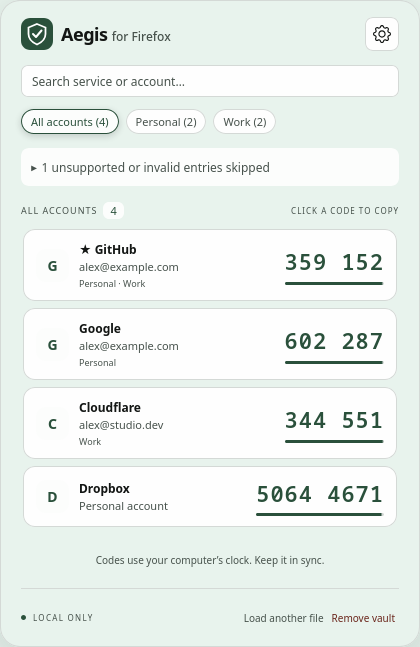
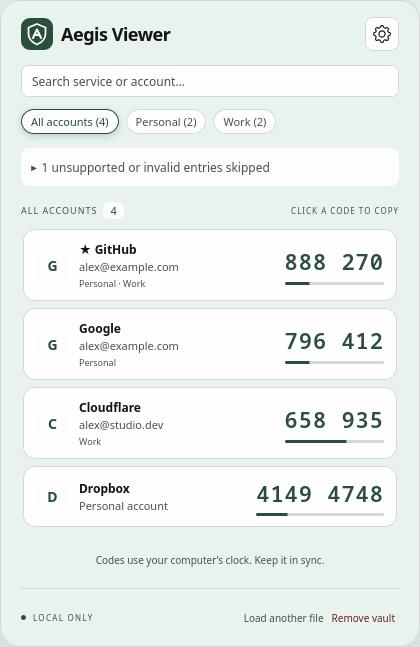
refactor: rename Firefox Aegis to Aegis Viewer and update related assets

diff --git a/extension/app.js b/extension/app.js
@@ -7157,7 +7157,7 @@ var App_default = /* @__PURE__ */ defineComponent({
 		});
 		return (_ctx, _cache) => {
 			return openBlock(), createElementBlock("main", null, [
-				createBaseVNode("header", null, [_cache[17] || (_cache[17] = createStaticVNode("<div class=\"brand\"><svg class=\"brand-icon\" aria-hidden=\"true\" width=\"32\" height=\"32\" viewBox=\"0 0 64 64\"><rect width=\"64\" height=\"64\" rx=\"18\" fill=\"var(--accent)\"></rect><path d=\"M32 12 49 19v13c0 10-8 17-17 21-9-4-17-11-17-21V19z\" fill=\"none\" stroke=\"var(--on-accent)\" stroke-width=\"3.5\"></path><path d=\"m24 32 6 6 11-13\" fill=\"none\" stroke=\"var(--on-accent)\" stroke-width=\"4\" stroke-linecap=\"round\" stroke-linejoin=\"round\"></path></svg><h1>Aegis <span>for Firefox</span></h1></div>", 1)), createBaseVNode("div", _hoisted_1, [
+				createBaseVNode("header", null, [_cache[17] || (_cache[17] = createStaticVNode("<div class=\"brand\"><svg class=\"brand-icon\" aria-hidden=\"true\" width=\"32\" height=\"32\" viewBox=\"0 0 64 64\"><rect width=\"64\" height=\"64\" rx=\"18\" fill=\"var(--accent)\"></rect><path d=\"M32 12 49 19v13c0 10-8 17-17 21-9-4-17-11-17-21V19z\" fill=\"none\" stroke=\"var(--on-accent)\" stroke-width=\"3.5\"></path><path d=\"M24 40 32 23 40 40M27 34h10\" fill=\"none\" stroke=\"var(--on-accent)\" stroke-width=\"4\" stroke-linecap=\"round\" stroke-linejoin=\"round\"></path></svg><h1>Aegis Viewer</h1></div>", 1)), createBaseVNode("div", _hoisted_1, [
 					createBaseVNode("button", {
 						disabled: busy.value || view.value === "import-password",
 						id: "config",

diff --git a/src/App.vue b/src/App.vue
@@ -310,7 +310,7 @@ onUnmounted(() => {
 <template>
   <main>
     <header>
-      <div class="brand"><svg class="brand-icon" aria-hidden="true" width="32" height="32" viewBox="0 0 64 64"><rect width="64" height="64" rx="18" fill="var(--accent)"/><path d="M32 12 49 19v13c0 10-8 17-17 21-9-4-17-11-17-21V19z" fill="none" stroke="var(--on-accent)" stroke-width="3.5"/><path d="m24 32 6 6 11-13" fill="none" stroke="var(--on-accent)" stroke-width="4" stroke-linecap="round" stroke-linejoin="round"/></svg><h1>Aegis <span>for Firefox</span></h1></div>
+      <div class="brand"><svg class="brand-icon" aria-hidden="true" width="32" height="32" viewBox="0 0 64 64"><rect width="64" height="64" rx="18" fill="var(--accent)"/><path d="M32 12 49 19v13c0 10-8 17-17 21-9-4-17-11-17-21V19z" fill="none" stroke="var(--on-accent)" stroke-width="3.5"/><path d="M24 40 32 23 40 40M27 34h10" fill="none" stroke="var(--on-accent)" stroke-width="4" stroke-linecap="round" stroke-linejoin="round"/></svg><h1>Aegis Viewer</h1></div>
       <!-- Bootstrap Icons v1.13.1 (MIT); see licenses/bootstrap-icons-LICENSE.txt. -->
       <div class="header-actions">
         <button :disabled="busy || view === 'import-password'" id="config" @click="toggleConfig" class="icon-button" :aria-pressed="configOpen" :title="configOpen ? 'Back' : 'Settings'" :aria-label="configOpen ? 'Back' : 'Settings'">

diff --git a/extension/app.html b/extension/app.html
@@ -3,10 +3,10 @@
 <head>
   <meta charset="utf-8">
   <meta name="viewport" content="width=device-width, initial-scale=1">
-  <title>Firefox Aegis</title>
+  <title>Aegis Viewer</title>
   <link rel="icon" href="icons/shield.svg" type="image/svg+xml">
   <script type="module" crossorigin src="./app.js"></script>
-  <link rel="stylesheet" crossorigin href="./app.css?v=0a60fe18026f">
+  <link rel="stylesheet" crossorigin href="./app.css?v=9df403fd0230">
 </head>
 <body><div id="app"></div></body>
 </html>

diff --git a/src/app.html b/src/app.html
@@ -3,7 +3,7 @@
 <head>
   <meta charset="utf-8">
   <meta name="viewport" content="width=device-width, initial-scale=1">
-  <title>Firefox Aegis</title>
+  <title>Aegis Viewer</title>
   <link rel="icon" href="icons/shield.svg" type="image/svg+xml">
 </head>
 <body><div id="app"></div><script type="module" src="./main.ts"></script></body>

diff --git a/src/app.scss b/src/app.scss
@@ -85,15 +85,9 @@ footer {
 
 h1 {
   font-size: 18px;
+  line-height: 1.25;
   letter-spacing: -0.5px;
   margin: 0;
-
-  span {
-    font-size: 12px;
-    font-weight: 500;
-    letter-spacing: 0;
-    color: var(--muted);
-  }
 }
 
 h2 {

diff --git a/extension/app.css b/extension/app.css
@@ -98,14 +98,9 @@ footer {
 
 h1 {
   font-size: 18px;
+  line-height: 1.25;
   letter-spacing: -0.5px;
   margin: 0;
-}
-h1 span {
-  font-size: 12px;
-  font-weight: 500;
-  letter-spacing: 0;
-  color: var(--muted);
 }
 
 h2 {

diff --git a/scripts/test-firefox.py b/scripts/test-firefox.py
@@ -73,10 +73,10 @@ class Marionette:
         self.js("const el = document.querySelector(arguments[0]); el.value = arguments[1]; el.dispatchEvent(new Event('input', {bubbles:true}));", [selector, value])
 
     def clock(self, timestamp):
-        self.js("document.dispatchEvent(new CustomEvent('__firefox_aegis_test_clock', {detail: arguments[0]}));", [timestamp])
+        self.js("document.dispatchEvent(new CustomEvent('__aegis_viewer_test_clock', {detail: arguments[0]}));", [timestamp])
 
     def session_snapshot(self):
-        self.js("delete document.documentElement.dataset.sessionSnapshot; document.dispatchEvent(new Event('__firefox_aegis_test_session')); ")
+        self.js("delete document.documentElement.dataset.sessionSnapshot; document.dispatchEvent(new Event('__aegis_viewer_test_session')); ")
         self.wait("document.documentElement.dataset.sessionSnapshot")
         return json.loads(self.js("return document.documentElement.dataset.sessionSnapshot"))
 
@@ -104,7 +104,7 @@ def main():
     firefox = shutil.which("firefox")
     if not firefox:
         raise SystemExit("Firefox must be installed for this test.")
-    with tempfile.TemporaryDirectory(prefix="firefox-aegis-test-") as temporary:
+    with tempfile.TemporaryDirectory(prefix="aegis-viewer-test-") as temporary:
         directory = Path(temporary)
         profile = directory / "profile"
         profile.mkdir()
@@ -135,17 +135,17 @@ def main():
                         clock = """(() => {
                           const realNow = Date.now.bind(Date); let clock = null;
                           Date.now = () => clock ?? realNow();
-                          document.addEventListener('__firefox_aegis_test_clock', event => {
+                          document.addEventListener('__aegis_viewer_test_clock', event => {
                             clock = event.detail;
                             document.dispatchEvent(new Event('visibilitychange'));
                           });
-                          document.addEventListener('__firefox_aegis_test_expire', async event => {
+                          document.addEventListener('__aegis_viewer_test_expire', async event => {
                             const cache = await browser.storage.session.get('unlockedVault');
                             cache.unlockedVault.unlockedAt = realNow() - 60_000 + (event.detail ?? 1_000);
                             await browser.storage.session.set(cache);
                             document.documentElement.dataset.expiryReady = 'true';
                           });
-                          document.addEventListener('__firefox_aegis_test_session', async () => {
+                          document.addEventListener('__aegis_viewer_test_session', async () => {
                             const cache = await browser.storage.session.get('unlockedVault');
                             const alarm = await browser.alarms.get('lock-vault');
                             document.documentElement.dataset.sessionSnapshot = JSON.stringify({
@@ -624,7 +624,7 @@ def main():
 
             # Reopening the popup resets the shared timer and updates the
             # deadline in the other, already-open view without a refresh loop.
-            client.js("document.dispatchEvent(new CustomEvent('__firefox_aegis_test_expire', {detail: 5_000}))")
+            client.js("document.dispatchEvent(new CustomEvent('__aegis_viewer_test_expire', {detail: 5_000}))")
             client.wait("document.documentElement.dataset.expiryReady === 'true'")
             old_timer = client.session_snapshot()
             client.navigate(url.split("?")[0])
@@ -643,7 +643,7 @@ def main():
             client.clock(None)
             client.command("WebDriver:SwitchToWindow", {"handle": first})
 
-            client.js("document.dispatchEvent(new Event('__firefox_aegis_test_expire'))")
+            client.js("document.dispatchEvent(new Event('__aegis_viewer_test_expire'))")
             client.wait("document.documentElement.dataset.expiryReady === 'true'")
             client.wait("!document.getElementById('unlock').hidden && !document.getElementById('unlock-password').disabled")
             client.command("WebDriver:SwitchToWindow", {"handle": second})
@@ -651,7 +651,7 @@ def main():
             client.fill("#unlock-password", "test")
             client.click("#unlock-form button")
             client.wait("document.querySelectorAll('.entry').length === 3 && !document.getElementById('lock').disabled")
-            client.js("document.dispatchEvent(new Event('__firefox_aegis_test_expire'))")
+            client.js("document.dispatchEvent(new Event('__aegis_viewer_test_expire'))")
             client.wait("document.documentElement.dataset.expiryReady === 'true'")
             client.navigate("about:blank")
             client.command("WebDriver:SwitchToWindow", {"handle": first})

diff --git a/scripts/package.py b/scripts/package.py
@@ -6,7 +6,7 @@ from zipfile import ZipFile, ZIP_DEFLATED
 root = Path(__file__).resolve().parents[1]
 extension = root / "extension"
 version = json.loads((extension / "manifest.json").read_text())["version"]
-output = root / "artifacts" / f"firefox-aegis-{version}.zip"
+output = root / "artifacts" / f"aegis-viewer-{version}.zip"
 output.parent.mkdir(exist_ok=True)
 with ZipFile(output, "w", ZIP_DEFLATED) as archive:
     for path in sorted(extension.rglob("*")):

diff --git a/README.md b/README.md
@@ -1,12 +1,12 @@
-# Firefox Aegis
+# Aegis Viewer
 
 > **AI disclosure:** This extension was made entirely by AI.
 
 A local Firefox extension for viewing TOTP codes from an [Aegis Authenticator](https://github.com/beemdevelopment/Aegis) JSON export.
 
-**Unofficial third-party extension:** Firefox Aegis is not affiliated with or endorsed by the Aegis Authenticator or Firefox teams.
+**Unofficial third-party extension:** Aegis Viewer is not affiliated with or endorsed by the Aegis Authenticator or Firefox teams.
 
-![Firefox Aegis in dark and light themes, showing demo TOTP accounts filtered by Gaming and Work groups](artifacts/showoff.png)
+![Aegis Viewer showing demo TOTP accounts in the default light theme](artifacts/preview.png)
 
 ## Features
 
@@ -26,7 +26,7 @@ Requires Firefox **142 or later**.
 1. Open `about:debugging#/runtime/this-firefox`.
 2. Click **Load Temporary Add-on…**.
 3. Select `extension/manifest.json` from this project.
-4. Open the **Firefox Aegis** toolbar button. Choose **Choose Aegis JSON** to open the import tab, then select your export.
+4. Open the **Aegis Viewer** toolbar button. Choose **Choose Aegis JSON** to open the import tab, then select your export.
 5. For an encrypted export, enter its Aegis password. For an unencrypted export, **Import without password** is selected by default. Select **Encrypt local copy** to show the password and confirmation fields if you want encryption, then select **Continue**.
 
 The built `extension/` directory is included, so loading it requires no Node installation. Temporary add-ons are removed when Firefox restarts. To create an unsigned ZIP for temporary loading or submission to Mozilla for signing, run `npm ci` and `npm run package` (see [Develop and verify](#develop-and-verify)). Generated ZIPs are not included in the repository. Permanent installation in regular Firefox requires Mozilla signing, either listed or unlisted.
@@ -55,7 +55,7 @@ To locate the profile on disk, open `about:support` in Firefox. Under **Applicat
 
 See [Mozilla's profile-folder guide](https://support.mozilla.org/en-US/kb/profiles-where-firefox-stores-user-data) for installation-specific differences.
 
-Firefox manages the saved copy as an IndexedDB database rather than a standalone Aegis JSON file. Its storage is typically under `<profile>/storage/default/moz-extension+++<internal-uuid>^userContextId=4294967295/idb/`; this is a Firefox implementation detail and can change. Find Firefox Aegis's **Internal UUID** on `about:debugging#/runtime/this-firefox` to identify its directory. See [Mozilla's storage directory example](https://bugzilla.mozilla.org/show_bug.cgi?id=1979997). The internal UUID is profile-specific and differs from the add-on ID `firefox-aegis@local.extension`.
+Firefox manages the saved copy as an IndexedDB database rather than a standalone Aegis JSON file. Its storage is typically under `<profile>/storage/default/moz-extension+++<internal-uuid>^userContextId=4294967295/idb/`; this is a Firefox implementation detail and can change. Find Aegis Viewer's **Internal UUID** on `about:debugging#/runtime/this-firefox` to identify its directory. See [Mozilla's storage directory example](https://bugzilla.mozilla.org/show_bug.cgi?id=1979997). The internal UUID is profile-specific and differs from the add-on ID `firefox-aegis@local.extension`.
 
 **Remove vault** deletes the saved vault and unlocked cache while keeping appearance and lock preferences. It leaves the original export and any backups untouched. Keep your Aegis export as your portable backup; Firefox's internal database files are managed by the browser.
 
@@ -99,7 +99,7 @@ Choose the relevant commands below when verifying changes or preparing a package
 | `npm test` | Run unit tests for TOTP reference vectors, vault imports and encryption, sessions, lock policies, and theme contrast. |
 | `npm run lint` | Run Mozilla's Add-ons Linter against the built extension. |
 | `npm run test:firefox` | Build and run the Firefox integration smoke test. |
-| `npm run package` | Build, lint, and create `artifacts/firefox-aegis-<version>.zip`, using the manifest version. |
+| `npm run package` | Build, lint, and create `artifacts/aegis-viewer-<version>.zip`, using the manifest version. |
 
 Every build includes typechecking. The Firefox smoke test uses a disposable headless profile and public demo secrets to check imports, password handling, code rollover, copy/filtering, locking across views and restarts, appearance settings, and removal. It never opens the user's Firefox profile. Test-only clock and lock-expiry hooks are injected into its disposable archive. Screenshots are written under `artifacts/`, including `preview.png`, `settings-preview.png`, and `settings-dark-preview.png`.
 
@@ -108,6 +108,12 @@ The linter fails on errors and unexpected warnings. `scripts/lint.mjs` permits o
 Edit application code in `src/` and styles in `src/app.scss`, then rebuild. Vite compiles Vue 3 components, TypeScript, and Sass into `extension/app.html`, `app.js`, `app.css`, and `background.js`; direct edits to those generated files are overwritten. JavaScript and CSS output remain unminified for readability. The manifest and icons are maintained directly in `extension/`. Runtime dependencies and compiled templates are bundled, so running the extension requires no package installation, runtime template compiler, or relaxed content security policy.
 
 `src/App.vue` coordinates imports, unlocking, settings, and shared state; `src/components/AccountCard.vue` renders accounts and countdowns. Vault, TOTP, and session logic live in `src/vault.ts`, `src/totp.ts`, and `src/session.ts`. Appearance is defined in `src/theme.ts`; lock policies and alarms live in `src/settings.ts`, `src/auto-lock.ts`, and `src/background.ts`. Unit tests execute TypeScript modules directly using Node's type stripping.
+
+## License
+
+Aegis Viewer's own code is licensed under the [MIT License](LICENSE). The license is also included in the built extension and packaged ZIP.
+
+Third-party components retain their respective licenses; bundled dependency and icon notices are included in [extension/THIRD_PARTY_LICENSE.txt](extension/THIRD_PARTY_LICENSE.txt). The Aegis test fixtures `tests/fixtures/upstream-plain.json` and `tests/fixtures/upstream-encrypted.json` remain separately licensed under GPL-3.0; see [tests/fixtures/LICENSE](tests/fixtures/LICENSE). These test fixtures are not included in the extension package.
 
 ## Format and test sources
 
